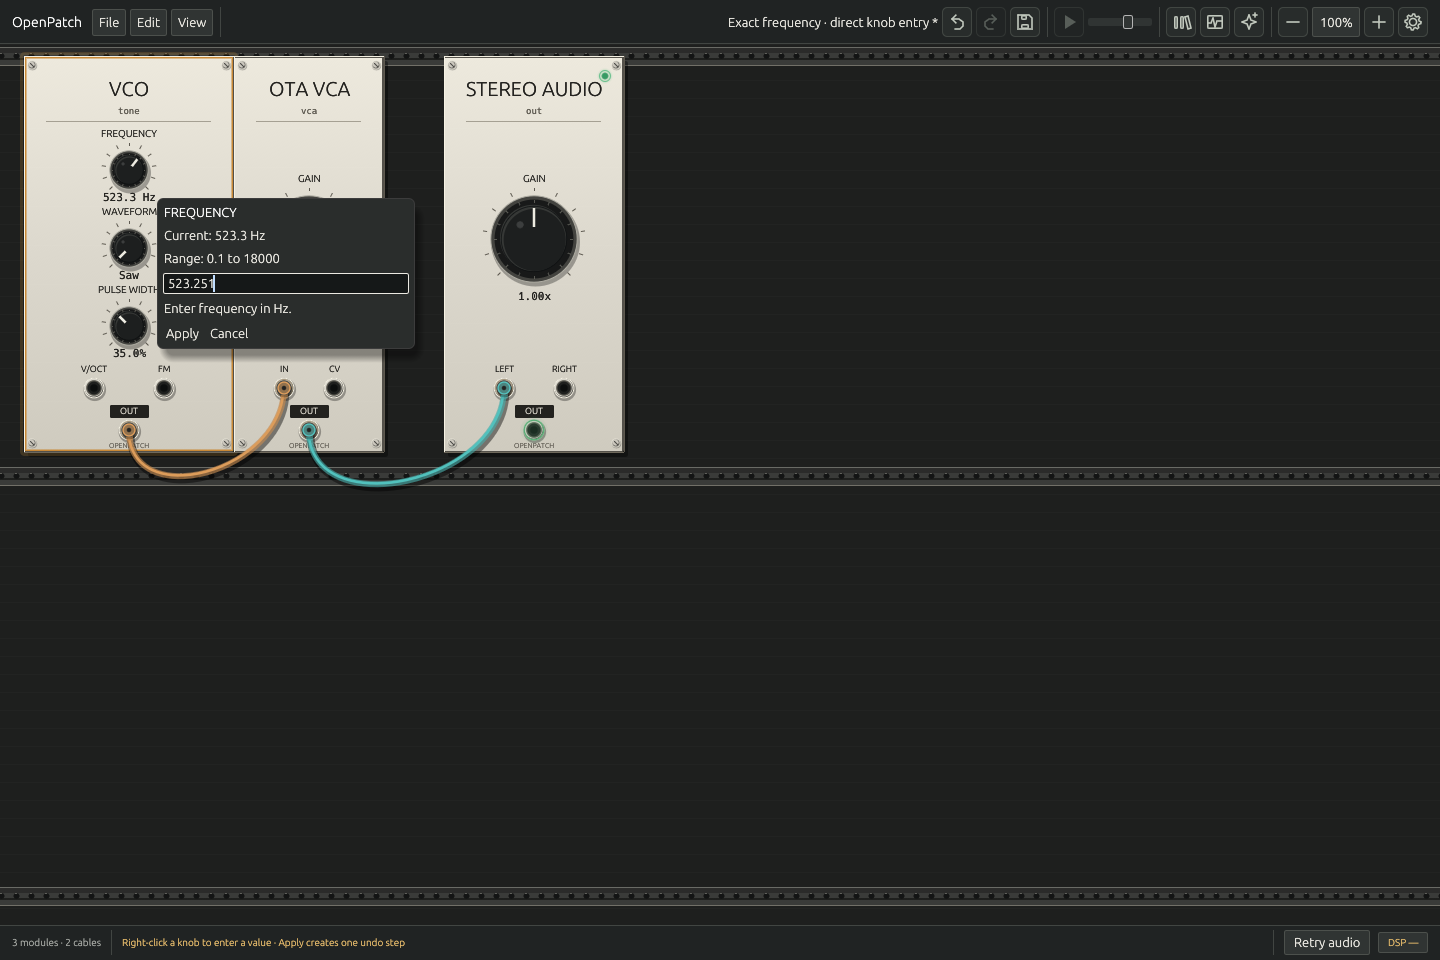
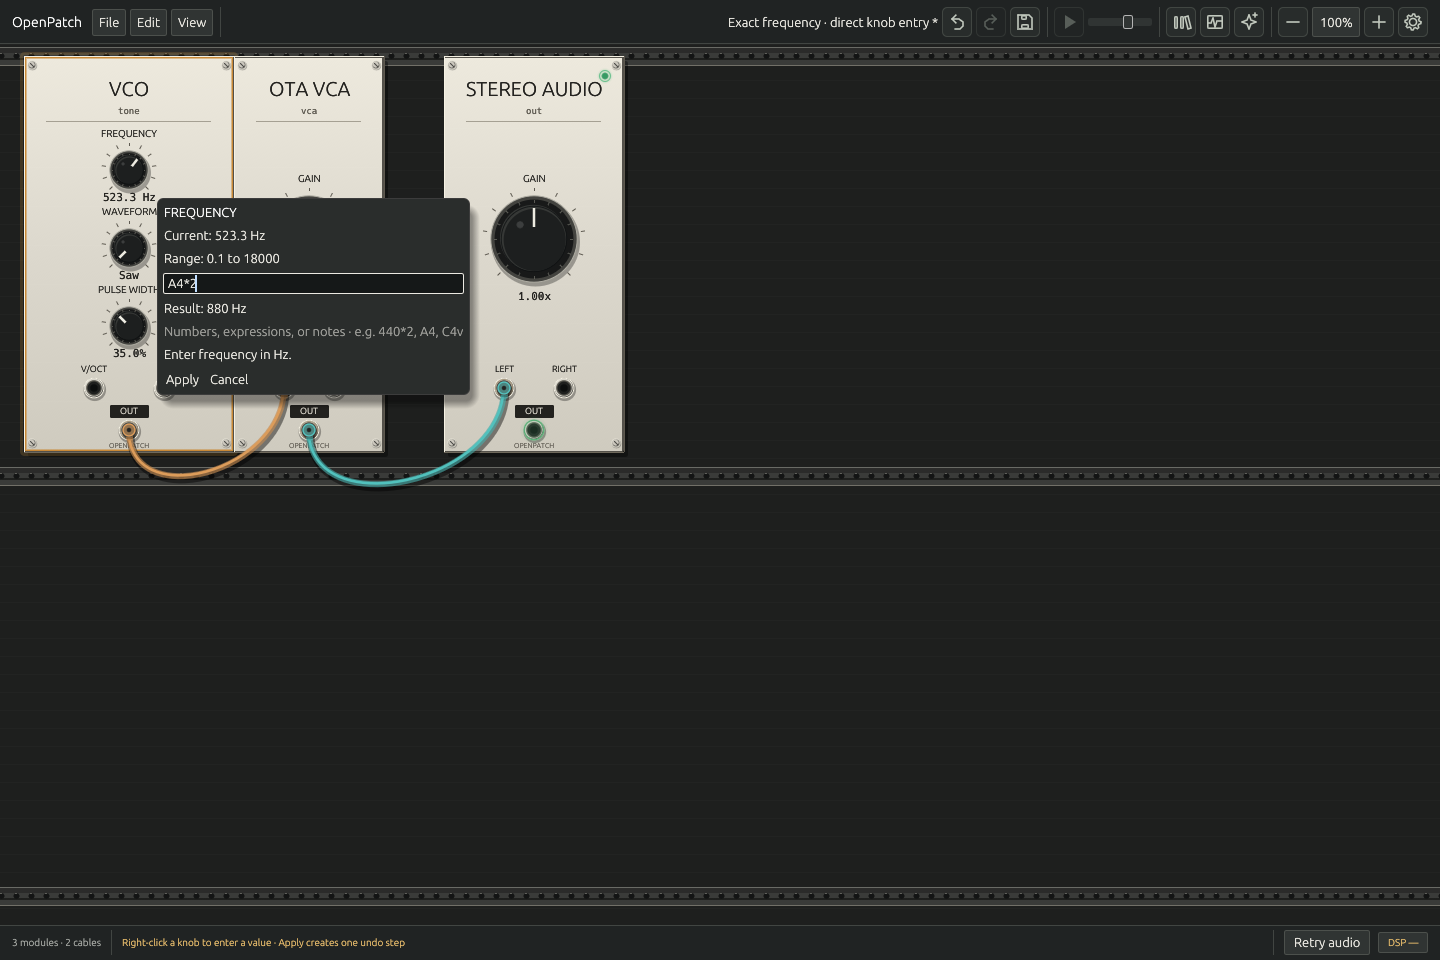
Show expression preview in parameter editing guide [skip ci]

Changed region(s): [[0.0938, 0.1875, 0.3438, 0.4375]]

diff --git a/docs/RACK_EDITING.md b/docs/RACK_EDITING.md
@@ -69,7 +69,7 @@ applying a value. The command also checks that original revision when committing
 so a concurrent change cannot be overwritten between drawing and applying the
 editor. Rejected drafts add no undo entry.
 
-![Direct frequency entry in a knob context menu](images/openpatch-parameter-entry.png)
+![Expression entry with a live frequency preview in a knob context menu](images/openpatch-parameter-entry.png)
 
 *Native Linux CI capture with a focused-editor fixture; playback is paused.*
 
